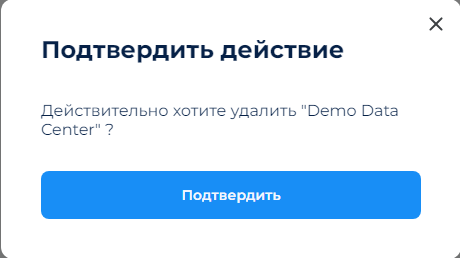
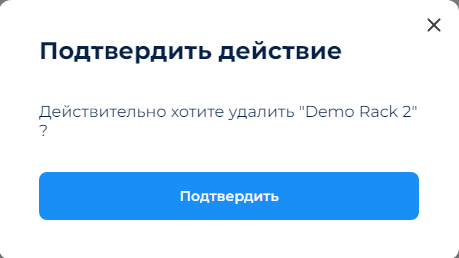
GITBOOK-83: No subject

diff --git a/ru/hashsare/opisanie-vkladok/stellazhi.md b/ru/hashsare/opisanie-vkladok/stellazhi.md
@@ -1,13 +1,10 @@
 # Стеллажи
 
-## Стеллаж — сущность, привязанная к одному помещению, включает определённое количество мест для устройств. Отображает данные только устройств внутри него.
+Стеллаж — сущность, привязанная к одному помещению, включает определённое количество мест для устройств. Отображает данные только устройств внутри него.
 
 • Можно создать неограниченное количество стеллажей в одном помещении.
 
 • По умолчанию создаётся один стеллаж, привязанный к созданному помещению.
-
-\
-
 
 ## Таблица “Стеллажи”
 
@@ -34,70 +31,59 @@
 
 • Редактирование — настройка параметров.
 
-<figure><img src="../../../.gitbook/assets/Снимок экрана 2025-01-13 в 20.08.20.png" alt=""><figcaption></figcaption></figure>
+<figure><img src="../../.gitbook/assets/image.png" alt=""><figcaption></figcaption></figure>
 
 ## Создание стеллажа
 
 \
-1\. Перейти в меню Стеллажи.
+1\. Перейти в меню **Стеллажи**.
 
-2\. Нажать кнопку Добавить новый стеллаж.
+2\. Нажать кнопку **Добавить новый стеллаж**.
 
 3\. В открывшемся окне:
 
-• Ввести название в поле Имя.
+* Ввести название в поле **Имя**.
+* Указать количество полок (Высота) от 1 до 10.
+* Указать количество мест на полке (Ширина) от 1 до 10.
+* Выбрать помещение из выпадающего списка.
 
-• Указать количество полок (Высота) от 1 до 10.
+4\. Нажать кнопку **Создать**.
 
-• Указать количество мест на полке (Ширина) от 1 до 10.
-
-• Выбрать помещение из выпадающего списка.
-
-4\. Нажать кнопку Создать.
-
-<figure><img src="../../../.gitbook/assets/Снимок экрана 2025-01-13 в 20.08.39.png" alt="" width="375"><figcaption></figcaption></figure>
+<figure><img src="../../.gitbook/assets/image (1).png" alt="" width="345"><figcaption></figcaption></figure>
 
 ## Редактирование стеллажа
 
 \
-1\. Нажать на кнопку три точки рядом с нужным стеллажом.
+1\. Нажать на кнопку _три точки_ рядом с нужным стеллажом.
 
-2\. Выбрать пункт Изменить.
+2\. Выбрать пункт **Изменить**.
 
 3\. Внести изменения:
 
-• Новое имя.
-
-• Количество полок (Высота) от 1 до 10.
-
-• Количество мест на полке (Ширина) от 1 до 10.
-
-• Помещение, к которому будет привязан стеллаж.
+* Новое имя.
+* Количество полок (Высота) от 1 до 10.
+* Количество мест на полке (Ширина) от 1 до 10.
+* Помещение, к которому будет привязан стеллаж.
 
 4\. Нажать Обновить.
 
-<figure><img src="../../../.gitbook/assets/Снимок экрана 2025-01-13 в 20.09.05.png" alt="" width="375"><figcaption></figcaption></figure>
+<figure><img src="../../.gitbook/assets/image (2).png" alt="" width="344"><figcaption></figcaption></figure>
 
 ## **Удаление Стеллажа:** <a href="#udalenie-data-centra" id="udalenie-data-centra"></a>
 
-1. Нажать на кнопку (три точки) рядом с нужным стеллажом
-2. Выбрать пункт меню Удалить
-3. В открывшемся окне нажать кнопку Подтвердить.\
+1. Нажать на кнопку _три точки_ рядом с нужным стеллажом
+2. Выбрать пункт меню **Удалить**
+3. В открывшемся окне нажать кнопку **Подтвердить**.
 
+<figure><img src="../../.gitbook/assets/image (3).png" alt="" width="344"><figcaption></figcaption></figure>
 
-<figure><img src="../../../.gitbook/assets/Снимок экрана 2025-01-13 в 20.09.15.png" alt="" width="375"><figcaption></figcaption></figure>
+## Переход на страницу стеллажа
 
-Переход на страницу стеллажа
+* В меню Стеллажи нажать на **Имя** нужного стеллажа.
 
-\
-4\. В меню Стеллажи нажать на ID нужного стеллажа.
+## Содержимое страницы стеллажа
 
-\
-Содержимое страницы стеллажа
-----------------------------
-
-\
-• Детали:
+**Детали:**
 
 • Размер: ширина × высота (например, 10×10).
 
@@ -105,33 +91,29 @@
 
 • Количество устройств:
 
-• Всего — неактивные + онлайн.
+* Всего — неактивные + онлайн.
+* Онлайн — устройства передают данные.
 
-• Онлайн — устройства передают данные.
+<figure><img src="../../.gitbook/assets/image (4).png" alt=""><figcaption></figcaption></figure>
 
-<figure><img src="../../../.gitbook/assets/Снимок экрана 2025-01-13 в 20.10.09.png" alt=""><figcaption></figcaption></figure>
-
-• Графики:
+### Графики:
 
 • Хэшрейт:
 
-• Asic Hashrate — переданный устройством.
-
-• Nominal Hashrate — заявленный производителем.
+* Asic Hashrate — переданный устройством.
+* Nominal Hashrate — заявленный производителем.
 
 • Потребление:
 
-• Asic Power — переданное устройством.
-
-• Nominal Power — заявленное производителем.
+* Asic Power — переданное устройством.
+* Nominal Power — заявленное производителем.
 
 • Устройства:
 
-• Active Asic — работающие устройства.
+* Active Asic — работающие устройства.
+* Total Asic — все устройства, включая нерабочие.
 
-• Total Asic — все устройства, включая нерабочие.
-
-<figure><img src="../../../.gitbook/assets/Снимок экрана 2025-01-13 в 20.10.15.png" alt=""><figcaption></figcaption></figure>
+<figure><img src="../../.gitbook/assets/image (5).png" alt=""><figcaption></figcaption></figure>
 
 ## Карта стеллажа
 
@@ -140,17 +122,15 @@
 
 • В каждой ячейке указаны:
 
-• Действительный хэшрейт.
-
-• Максимальная температура чипов.
+* Действительный хэшрейт.
+* Максимальная температура чипов.
 
 • Особенности отображения:
 
-• Если хэшрейт или температура = 0 или превышают норму, шрифт становится красным.
+* Если хэшрейт или температура = 0 или превышают норму, шрифт становится красным.
+* Для просмотра текущих проблем можно переключить отображаемую характеристику в правом верхнем углу.
 
-• Для просмотра текущих проблем можно переключить отображаемую характеристику в правом верхнем углу.
-
-<figure><img src="../../../.gitbook/assets/Снимок экрана 2025-01-13 в 20.10.57.png" alt="" width="375"><figcaption></figcaption></figure>
+<figure><img src="../../.gitbook/assets/image (6).png" alt=""><figcaption></figcaption></figure>
 
 ## Список устройств на стеллаже
 
@@ -159,18 +139,15 @@
 
 • Таблица включает:
 
-• ID устройства — уникальный идентификатор, заданный системой.
+* ID устройства — уникальный идентификатор, заданный системой.
+* Модель — определяется агентом или задаётся вручную; отображается прошивка.
+* Хэшрейт — текущий показатель устройства:
 
-• Модель — определяется агентом или задаётся вручную; отображается прошивка.
+&#x20;     🟢 Хэшрейт > 0
 
-• Хэшрейт — текущий показатель устройства:
+&#x20;     🔴 Хэшрейт = 0 или не определён
 
-• 🟢 Хэшрейт > 0
+* Имя воркера — состоит из имени пула и устройства, определяется агентом или вручную.
+* IP-адрес — автоматически определяется агентом или задаётся вручную.
 
-• 🔴 Хэшрейт = 0 или не определён
-
-• Имя воркера — состоит из имени пула и устройства, определяется агентом или вручную.
-
-• IP-адрес — автоматически определяется агентом или задаётся вручную.
-
-<figure><img src="../../../.gitbook/assets/Снимок экрана 2025-01-13 в 20.11.08.png" alt=""><figcaption></figcaption></figure>
+<figure><img src="../../.gitbook/assets/image (7).png" alt=""><figcaption></figcaption></figure>

diff --git a/ru/hashsare/opisanie-vkladok/data-centr.md b/ru/hashsare/opisanie-vkladok/data-centr.md
@@ -19,7 +19,7 @@
 
 • Редактирование: кнопка для изменений.
 
-<figure><img src="../../.gitbook/assets/image.png" alt=""><figcaption></figcaption></figure>
+<figure><img src="../../.gitbook/assets/image (8).png" alt=""><figcaption></figcaption></figure>
 
 ## ➕ Создание Дата-центра
 
@@ -35,7 +35,7 @@
 \
 💡 Первый дата-центр создаётся с ID 1. Новый дата-центр получает следующий порядковый ID, даже если предыдущие были удалены.
 
-<figure><img src="../../.gitbook/assets/image (1).png" alt="" width="345"><figcaption></figcaption></figure>
+<figure><img src="../../.gitbook/assets/image (1) (1).png" alt="" width="345"><figcaption></figcaption></figure>
 
 ## ✏ Редактирование Дата-центра
 
@@ -48,7 +48,7 @@
 
 4\. Нажмите **Обновить**.
 
-<figure><img src="../../.gitbook/assets/image (2).png" alt="" width="344"><figcaption></figcaption></figure>
+<figure><img src="../../.gitbook/assets/image (2) (1).png" alt="" width="344"><figcaption></figcaption></figure>
 
 ## 🗑 Удаление Дата-центра
 
@@ -59,7 +59,7 @@
 
 3\. В открывшемся окне подтвердите действие кнопкой **Подтвердить**.
 
-<figure><img src="../../.gitbook/assets/image (3).png" alt="" width="345"><figcaption></figcaption></figure>
+<figure><img src="../../.gitbook/assets/image (3) (1).png" alt="" width="345"><figcaption></figcaption></figure>
 
 **🔹 Графики**
 
@@ -75,4 +75,4 @@
 * Active Asic: работающие устройства.
 * Total Asic: общее количество устройств.
 
-<figure><img src="../../.gitbook/assets/image (4).png" alt=""><figcaption></figcaption></figure>
+<figure><img src="../../.gitbook/assets/image (4) (1).png" alt=""><figcaption></figcaption></figure>
